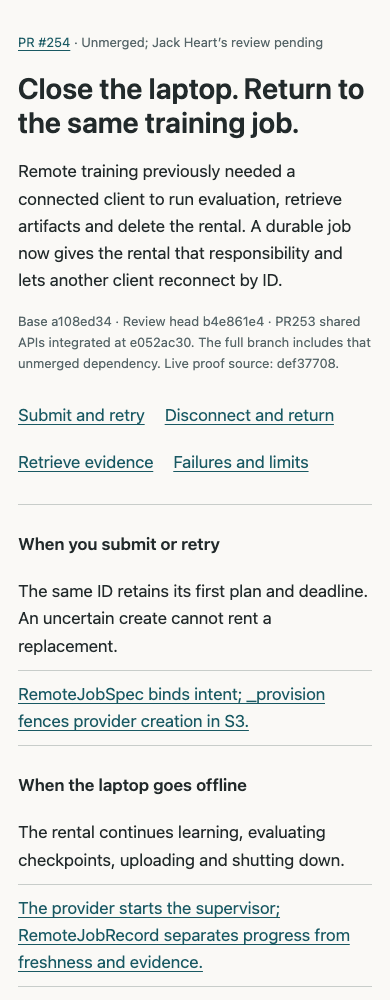
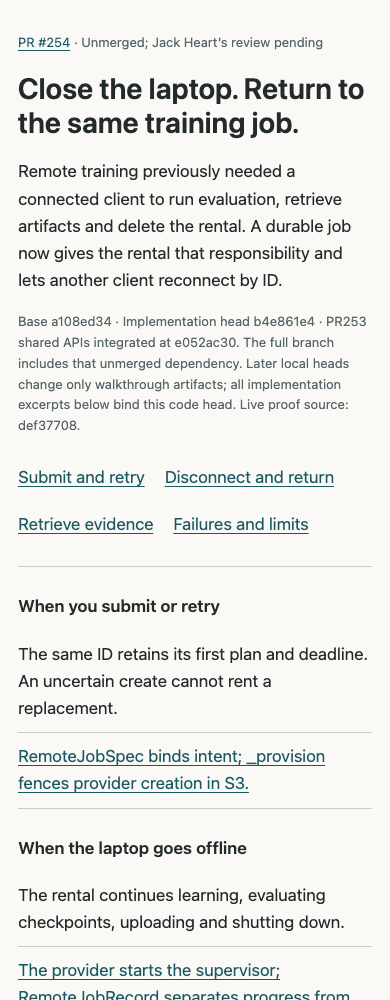
lf pr open: prepare branch

Changed region(s): [[0.0308, 0.31, 0.9538, 1.0]]

diff --git a/scratch/pr-review.html b/scratch/pr-review.html
@@ -1,13 +1,13 @@
 <!doctype html><html lang="en"><head><meta charset="utf-8"><meta name="viewport" content="width=device-width,initial-scale=1"><title>Remote jobs · PR 254</title><style>
 :root{color-scheme:light}*{box-sizing:border-box}body{margin:0;background:#faf9f6;color:#222a2b;font:17px/1.6 system-ui,sans-serif}main{max-width:1120px;margin:64px auto;padding:0 28px}h1{font-size:38px;line-height:1.15;font-weight:600;max-width:800px}h2{margin:68px 0 18px;font-size:28px;font-weight:550}p{max-width:850px}a{color:#195963;text-underline-offset:3px}nav{display:flex;flex-wrap:wrap;gap:20px;margin:28px 0}.meta,figcaption{font-size:13px;color:#566568}.map{display:grid;grid-template-columns:1.1fr 2fr 2fr;border-top:1px solid #c8cdca}.map>div{padding:16px 12px;border-bottom:1px solid #c8cdca}.map .label{font-weight:600}figure{margin:28px 0}figcaption{margin-bottom:9px}pre{background:#eff1ed;padding:22px;overflow:auto;font:14px/1.55 ui-monospace,SFMono-Regular,Consolas,monospace;border-left:2px solid #638889}.terminal{background:#e8eeec}code{tab-size:4}details{margin:24px 0}summary{cursor:pointer}a:focus-visible,summary:focus-visible{outline:3px solid #a25d24;outline-offset:4px}@media(max-width:680px){main{margin:32px auto;padding:0 18px}h1{font-size:29px}.map{display:block}.map>div{padding:10px 0}.map .label{margin-top:16px;border:0}pre{font-size:12px;padding:14px}}@media print{main{margin:0;max-width:none}pre{white-space:pre-wrap;overflow-wrap:anywhere}nav{display:none}figure{break-inside:avoid}}
-</style></head><body><main><p class="meta"><a href="https://github.com/loopflowstudio/etude/pull/254">PR #254</a> · Unmerged; Jack Heart’s review pending</p><h1>Close the laptop. Return to the same training job.</h1><p>Remote training previously needed a connected client to run evaluation, retrieve artifacts and delete the rental. A durable job now gives the rental that responsibility and lets another client reconnect by ID.</p><p class="meta">Base a108ed34 · Review head 6c426dec · PR253 shared APIs integrated at e052ac30. The full branch includes that unmerged dependency. Live proof source: def37708.</p>
+</style></head><body><main><p class="meta"><a href="https://github.com/loopflowstudio/etude/pull/254">PR #254</a> · Unmerged; Jack Heart’s review pending</p><h1>Close the laptop. Return to the same training job.</h1><p>Remote training previously needed a connected client to run evaluation, retrieve artifacts and delete the rental. A durable job now gives the rental that responsibility and lets another client reconnect by ID.</p><p class="meta">Base a108ed34 · Implementation head b4e861e4 · PR253 shared APIs integrated at e052ac30. The full branch includes that unmerged dependency. Later local heads change only walkthrough artifacts; all implementation excerpts below bind this code head. Live proof source: def37708.</p>
 <nav aria-label="Review sections"><a href="#submit">Submit and retry</a><a href="#disconnect">Disconnect and return</a><a href="#evidence">Retrieve evidence</a><a href="#limits">Failures and limits</a></nav>
 <div class="map"><div class="label">When you submit or retry</div><div>The same ID retains its first plan and deadline. An uncertain create cannot rent a replacement.</div><div><a href="#submit">RemoteJobSpec binds intent; _provision fences provider creation in S3.</a></div><div class="label">When the laptop goes offline</div><div>The rental continues learning, evaluating checkpoints, uploading and shutting down.</div><div><a href="#disconnect">The provider starts the supervisor; RemoteJobRecord separates progress from freshness and evidence.</a></div><div class="label">When you return after deletion</div><div>You fetch a committed artifact generation and regenerate the notebook/HTML locally.</div><div><a href="#evidence">publish_snapshot commits verified bytes before publishing the manifest.</a></div><div class="label">When work must stop</div><div>Cancel requests remote finalization. Forced reconciliation can delete a failed setup; Ctrl-C only detaches.</div><div><a href="#limits">A durable cancellation mailbox and independent guardian preserve the distinction.</a></div></div>
 <h2 id="submit">1. Submit once; reconcile uncertainty</h2><p>Illustrative public commands below use a previously compiled source-pinned plan. The observed paid proof calls the same prepare_job/submit_job API from its retained driver.</p><pre class="terminal">uv run --extra artifacts manabot deploy \
   --plan .runs/remote-plan.json --job-id example-001 \
   --monitoring .runs/monitoring.json
 uv run --extra artifacts manabot deploy status --job-id example-001</pre>
-<figure><figcaption><a href="https://github.com/loopflowstudio/etude/blob/6c426dec9a79ccce8f449c14338d3449bcf2c55c/manabot/remote/cli.py#L50-L85">manabot/remote/cli.py · deploy_command · 6c426dec · lines 50–85</a></figcaption><pre><code>def deploy_command(
+<figure><figcaption><a href="https://github.com/loopflowstudio/etude/blob/b4e861e4878a55c7642daa7e77ae91d76c5938f3/manabot/remote/cli.py#L50-L85">manabot/remote/cli.py · deploy_command · b4e861e4 · lines 50–85</a></figcaption><pre><code>def deploy_command(
     ctx: typer.Context,
     plan: Path | None = None,
     regime: Path | None = None,
@@ -43,7 +43,7 @@ uv run --extra artifacts manabot deploy status --job-id example-001</pre>
         checkpoint_seconds,
         destination,
     )</code></pre></figure>
-<figure><figcaption><a href="https://github.com/loopflowstudio/etude/blob/6c426dec9a79ccce8f449c14338d3449bcf2c55c/manabot/remote/jobs.py#L26-L47">manabot/remote/jobs.py · RemoteJobSpec · 6c426dec · lines 26–47</a></figcaption><pre><code>class RemoteJobSpec(Frozen):
+<figure><figcaption><a href="https://github.com/loopflowstudio/etude/blob/b4e861e4878a55c7642daa7e77ae91d76c5938f3/manabot/remote/jobs.py#L26-L47">manabot/remote/jobs.py · RemoteJobSpec · b4e861e4 · lines 26–47</a></figcaption><pre><code>class RemoteJobSpec(Frozen):
     job_id: str = Field(pattern=r&quot;^[a-z0-9][a-z0-9-]{0,62}$&quot;)
     plan: DeploymentPlan
     created_at: float
@@ -66,7 +66,7 @@ uv run --extra artifacts manabot deploy status --job-id example-001</pre>
             raise ValueError(
                 &quot;remote job credential lifetime is bounded to twelve hours&quot;
 # … remaining validation omitted from this excerpt</code></pre></figure>
-<figure><figcaption><a href="https://github.com/loopflowstudio/etude/blob/6c426dec9a79ccce8f449c14338d3449bcf2c55c/manabot/remote/job_client.py#L54-L151">manabot/remote/job_client.py · _provision · 6c426dec · lines 54–151</a></figcaption><pre><code>def _provision(
+<figure><figcaption><a href="https://github.com/loopflowstudio/etude/blob/b4e861e4878a55c7642daa7e77ae91d76c5938f3/manabot/remote/job_client.py#L54-L151">manabot/remote/job_client.py · _provision · b4e861e4 · lines 54–151</a></figcaption><pre><code>def _provision(
     spec: RemoteJobSpec,
     store: JobStore,
     provider: RunPod,
@@ -166,7 +166,7 @@ uv run --extra artifacts manabot deploy status --job-id example-001</pre>
     return resource</code></pre></figure>
 <p>The create claim is permanent. A crash between claiming and issuing the request can leave the job ambiguous; no lease timeout silently creates another rental. Reconciliation is deliberately conservative.</p>
 <h2 id="disconnect">2. Remote ownership survives the client</h2><p>The submitting client exited at update 0. The same job finished 160 updates on CUDA, with 2 later checkpoint evaluations starting after that exit. 12 arena games completed. All 48 bundle files verified after deletion; 4 raw/EMA policies passed ordinary admission. Inventory was empty. Both proof attempts cost $0.1158 estimated, inside the shared $3 reservation. This proves execution survival and evidence retrieval, not learning strength.</p>
-<figure><figcaption><a href="https://github.com/loopflowstudio/etude/blob/6c426dec9a79ccce8f449c14338d3449bcf2c55c/manabot/remote/jobs.py#L99-L117">manabot/remote/jobs.py · RemoteJobRecord · 6c426dec · lines 99–117</a></figcaption><pre><code>class RemoteJobRecord(Frozen):
+<figure><figcaption><a href="https://github.com/loopflowstudio/etude/blob/b4e861e4878a55c7642daa7e77ae91d76c5938f3/manabot/remote/jobs.py#L99-L117">manabot/remote/jobs.py · RemoteJobRecord · b4e861e4 · lines 99–117</a></figcaption><pre><code>class RemoteJobRecord(Frozen):
     spec_sha256: str
     pod_id: str
     phase: JobPhase
@@ -185,7 +185,7 @@ uv run --extra artifacts manabot deploy status --job-id example-001</pre>
     @property
     def terminal(self) -&gt; bool:
         return self.phase in {&quot;completed&quot;, &quot;failed&quot;, &quot;cancelled&quot;, &quot;deadline&quot;}</code></pre></figure>
-<figure><figcaption><a href="https://github.com/loopflowstudio/etude/blob/6c426dec9a79ccce8f449c14338d3449bcf2c55c/manabot/remote/supervisor.py#L309-L337">manabot/remote/supervisor.py · main · 6c426dec · lines 309–337</a></figcaption><pre><code>def main() -&gt; None:
+<figure><figcaption><a href="https://github.com/loopflowstudio/etude/blob/b4e861e4878a55c7642daa7e77ae91d76c5938f3/manabot/remote/supervisor.py#L309-L337">manabot/remote/supervisor.py · main · b4e861e4 · lines 309–337</a></figcaption><pre><code>def main() -&gt; None:
     store = S3JobStore(os.environ[&quot;MANABOT_JOB_PREFIX&quot;])
     raw = store.read(&quot;spec.json&quot;)
     if raw is None:
@@ -224,7 +224,7 @@ uv run --extra artifacts --extra notebook manabot deploy report \
   --evidence .runs/etu123-disconnect/cli-returned/generation-000008 \
   --out .runs/etu123-disconnect/cli-report
 .runs/etu123-disconnect/cli-report/comparison.html</pre>
-<figure><figcaption><a href="https://github.com/loopflowstudio/etude/blob/6c426dec9a79ccce8f449c14338d3449bcf2c55c/manabot/remote/snapshots.py#L112-L156">manabot/remote/snapshots.py · publish_snapshot · 6c426dec · lines 112–156</a></figcaption><pre><code>def publish_snapshot(
+<figure><figcaption><a href="https://github.com/loopflowstudio/etude/blob/b4e861e4878a55c7642daa7e77ae91d76c5938f3/manabot/remote/snapshots.py#L112-L156">manabot/remote/snapshots.py · publish_snapshot · b4e861e4 · lines 112–156</a></figcaption><pre><code>def publish_snapshot(
     spec: RemoteJobSpec,
     root: Path,
     generation: int,
@@ -271,7 +271,7 @@ uv run --extra artifacts --extra notebook manabot deploy report \
         )</code></pre></figure>
 <p>SQLite’s online backup supplies one consistent database cut. Its run JSON is derived from that same backup; committed artifacts and closed evaluator attempts retain their original bytes. An upload failure leaves the previous committed generation readable.</p>
 <h2 id="limits">4. Cancellation, evidence gaps and the review boundary</h2>
-<figure><figcaption><a href="https://github.com/loopflowstudio/etude/blob/6c426dec9a79ccce8f449c14338d3449bcf2c55c/manabot/remote/job_client.py#L373-L385">manabot/remote/job_client.py · cancel_job · 6c426dec · lines 373–385</a></figcaption><pre><code>def cancel_job(spec: RemoteJobSpec, *, store: JobStore | None = None) -&gt; None:
+<figure><figcaption><a href="https://github.com/loopflowstudio/etude/blob/b4e861e4878a55c7642daa7e77ae91d76c5938f3/manabot/remote/job_client.py#L373-L385">manabot/remote/job_client.py · cancel_job · b4e861e4 · lines 373–385</a></figcaption><pre><code>def cancel_job(spec: RemoteJobSpec, *, store: JobStore | None = None) -&gt; None:
     &quot;&quot;&quot;Request cancellation once; concurrent callers preserve its first timestamp.&quot;&quot;&quot;
     store = store or S3JobStore(spec.prefix)
     request = Cancellation(requested_at=time.time()).model_dump_json().encode()
@@ -285,5 +285,5 @@ uv run --extra artifacts --extra notebook manabot deploy report \
         elif store.replace(&quot;cancel.json&quot;, request, current.etag):
             return</code></pre></figure>
 <p>The first live attempt reached acceptance but failed before learner launch because S3 returns 403 for a missing key to the restricted worker. Submission now creates the empty mailbox first. Its setup artifacts and cost remain retained; permissions were not widened to bucket listing. The successful proof’s final status poll lagged at 139 updates while its database held 160. Current status reads VerifyStore; a regression covers that correction. Frozen evidence was not rewritten or rerun.</p><p>SSO role chaining currently admits less than one hour including reserves. Reconnection is observation and retrieval, not CUDA process recovery. Historical arbitrary SSH calibration callbacks fail before rental until those callers adopt a serializable workload. The only registered lifecycle namespace is <code>manabot deploy</code>; there is no compatibility alias. Publication is not merge approval.</p>
-<details><summary>Verification and retained evidence</summary><p>The local deployment suite and focused evaluator/storage checks passed 94 tests (one CUDA-host skip), including rejection of the removed namespace. These checks cover subprocess detachment, uncertain creation, concurrent intent, cancellation, deadline, upload failure, immutable snapshot verification and the guardian. CUDA-host checks are skipped locally; the retained live proof is separate. Full private evidence remains in <code>.runs/etu123-disconnect</code>. The durable contract is <a href="https://github.com/loopflowstudio/etude/blob/6c426dec9a79ccce8f449c14338d3449bcf2c55c/docs/remote-jobs.md">docs/remote-jobs.md</a>.</p></details>
+<details><summary>Verification and retained evidence</summary><p>The local deployment suite and focused evaluator/storage checks passed 94 tests (one CUDA-host skip), including rejection of the removed namespace. These checks cover subprocess detachment, uncertain creation, concurrent intent, cancellation, deadline, upload failure, immutable snapshot verification and the guardian. CUDA-host checks are skipped locally; the retained live proof is separate. Full private evidence remains in <code>.runs/etu123-disconnect</code>. The durable contract is <a href="https://github.com/loopflowstudio/etude/blob/b4e861e4878a55c7642daa7e77ae91d76c5938f3/docs/remote-jobs.md">docs/remote-jobs.md</a>.</p></details>
 <p class="meta">This walkthrough describes the pinned source above. No merge decision or scientific strength claim is made.</p></main></body></html>

diff --git a/scratch/pr-review.py b/scratch/pr-review.py
@@ -4,7 +4,7 @@ import json
 from pathlib import Path
 import subprocess
 
-head=subprocess.check_output(['git','rev-parse','HEAD'],text=True).strip()
+head='b4e861e4878a55c7642daa7e77ae91d76c5938f3'
 base='a108ed3428a7f8c363a28c7df5dc71a4cd8d2719'
 integrated='e052ac30a7eeca77f7af4365a9eed6b5b75a6b2b'
 
@@ -22,7 +22,7 @@ proof=json.loads(proof_path.read_text()) if proof_path.exists() else None
 proof_text='Live proof is still running. Offline fixtures are not CUDA acceptance.' if proof is None else f'''The submitting client exited at update {proof['updates_at_client_exit']}. The same job finished {proof['final_updates']} updates on CUDA, with {proof['later_evaluations_after_client_exit']} later checkpoint evaluations starting after that exit. {proof['complete_arena_games']} arena games completed. All {proof['verified_bundle_files']} bundle files verified after deletion; {proof['admitted_raw_ema_policies']} raw/EMA policies passed ordinary admission. Inventory was empty. Both proof attempts cost ${proof['etu123_total_estimated_dollars']:.4f} estimated, inside the shared $3 reservation. This proves execution survival and evidence retrieval, not learning strength.'''
 html=f'''<!doctype html><html lang="en"><head><meta charset="utf-8"><meta name="viewport" content="width=device-width,initial-scale=1"><title>Remote jobs · PR 254</title><style>
 :root{{color-scheme:light}}*{{box-sizing:border-box}}body{{margin:0;background:#faf9f6;color:#222a2b;font:17px/1.6 system-ui,sans-serif}}main{{max-width:1120px;margin:64px auto;padding:0 28px}}h1{{font-size:38px;line-height:1.15;font-weight:600;max-width:800px}}h2{{margin:68px 0 18px;font-size:28px;font-weight:550}}p{{max-width:850px}}a{{color:#195963;text-underline-offset:3px}}nav{{display:flex;flex-wrap:wrap;gap:20px;margin:28px 0}}.meta,figcaption{{font-size:13px;color:#566568}}.map{{display:grid;grid-template-columns:1.1fr 2fr 2fr;border-top:1px solid #c8cdca}}.map>div{{padding:16px 12px;border-bottom:1px solid #c8cdca}}.map .label{{font-weight:600}}figure{{margin:28px 0}}figcaption{{margin-bottom:9px}}pre{{background:#eff1ed;padding:22px;overflow:auto;font:14px/1.55 ui-monospace,SFMono-Regular,Consolas,monospace;border-left:2px solid #638889}}.terminal{{background:#e8eeec}}code{{tab-size:4}}details{{margin:24px 0}}summary{{cursor:pointer}}a:focus-visible,summary:focus-visible{{outline:3px solid #a25d24;outline-offset:4px}}@media(max-width:680px){{main{{margin:32px auto;padding:0 18px}}h1{{font-size:29px}}.map{{display:block}}.map>div{{padding:10px 0}}.map .label{{margin-top:16px;border:0}}pre{{font-size:12px;padding:14px}}}}@media print{{main{{margin:0;max-width:none}}pre{{white-space:pre-wrap;overflow-wrap:anywhere}}nav{{display:none}}figure{{break-inside:avoid}}}}
-</style></head><body><main><p class="meta"><a href="https://github.com/loopflowstudio/etude/pull/254">PR #254</a> · Unmerged; Jack Heart’s review pending</p><h1>Close the laptop. Return to the same training job.</h1><p>Remote training previously needed a connected client to run evaluation, retrieve artifacts and delete the rental. A durable job now gives the rental that responsibility and lets another client reconnect by ID.</p><p class="meta">Base {base[:8]} · Review head {head[:8]} · PR253 shared APIs integrated at {integrated[:8]}. The full branch includes that unmerged dependency. Live proof source: {escape(proof['source'][:8] if proof else 'pending')}.</p>
+</style></head><body><main><p class="meta"><a href="https://github.com/loopflowstudio/etude/pull/254">PR #254</a> · Unmerged; Jack Heart’s review pending</p><h1>Close the laptop. Return to the same training job.</h1><p>Remote training previously needed a connected client to run evaluation, retrieve artifacts and delete the rental. A durable job now gives the rental that responsibility and lets another client reconnect by ID.</p><p class="meta">Base {base[:8]} · Implementation head {head[:8]} · PR253 shared APIs integrated at {integrated[:8]}. The full branch includes that unmerged dependency. Later local heads change only walkthrough artifacts; all implementation excerpts below bind this code head. Live proof source: {escape(proof['source'][:8] if proof else 'pending')}.</p>
 <nav aria-label="Review sections"><a href="#submit">Submit and retry</a><a href="#disconnect">Disconnect and return</a><a href="#evidence">Retrieve evidence</a><a href="#limits">Failures and limits</a></nav>
 <div class="map"><div class="label">When you submit or retry</div><div>The same ID retains its first plan and deadline. An uncertain create cannot rent a replacement.</div><div><a href="#submit">RemoteJobSpec binds intent; _provision fences provider creation in S3.</a></div><div class="label">When the laptop goes offline</div><div>The rental continues learning, evaluating checkpoints, uploading and shutting down.</div><div><a href="#disconnect">The provider starts the supervisor; RemoteJobRecord separates progress from freshness and evidence.</a></div><div class="label">When you return after deletion</div><div>You fetch a committed artifact generation and regenerate the notebook/HTML locally.</div><div><a href="#evidence">publish_snapshot commits verified bytes before publishing the manifest.</a></div><div class="label">When work must stop</div><div>Cancel requests remote finalization. Forced reconciliation can delete a failed setup; Ctrl-C only detaches.</div><div><a href="#limits">A durable cancellation mailbox and independent guardian preserve the distinction.</a></div></div>
 <h2 id="submit">1. Submit once; reconcile uncertainty</h2><p>Illustrative public commands below use a previously compiled source-pinned plan. The observed paid proof calls the same prepare_job/submit_job API from its retained driver.</p><pre class="terminal">uv run --extra artifacts manabot deploy \\

diff --git a/scratch/remote-training-jobs.md b/scratch/remote-training-jobs.md
@@ -47,8 +47,11 @@ admitted four policies and regenerated notebook/HTML after deletion. The final
 status poll lagged at 139; the authoritative database held 160. Current status
 uses that database, with a regression; frozen evidence is unchanged.
 
-Remaining: publish the final API/reporting corrections, refresh the source-pinned
-HTML walkthrough, and leave PR #254 unmerged for Jack Heart's review. Full private
+The final API/reporting corrections are published in PR #254. The walkthrough
+binds implementation head `b4e861e4`; later heads change review artifacts only.
+Desktop/narrow layout and code excerpts were rendered and inspected. Remaining:
+the saved Flow must reach its pr-review boundary, and Jack Heart reviews before
+any merge. This running implement Session cannot mark that human review complete. Full private
 proof stays in `.runs/etu123-disconnect`; compact hashes/costs are in
 `experiments/data/etu123-remote-jobs`. The requested proof was not restarted for
 CLI naming or the counter repair.
